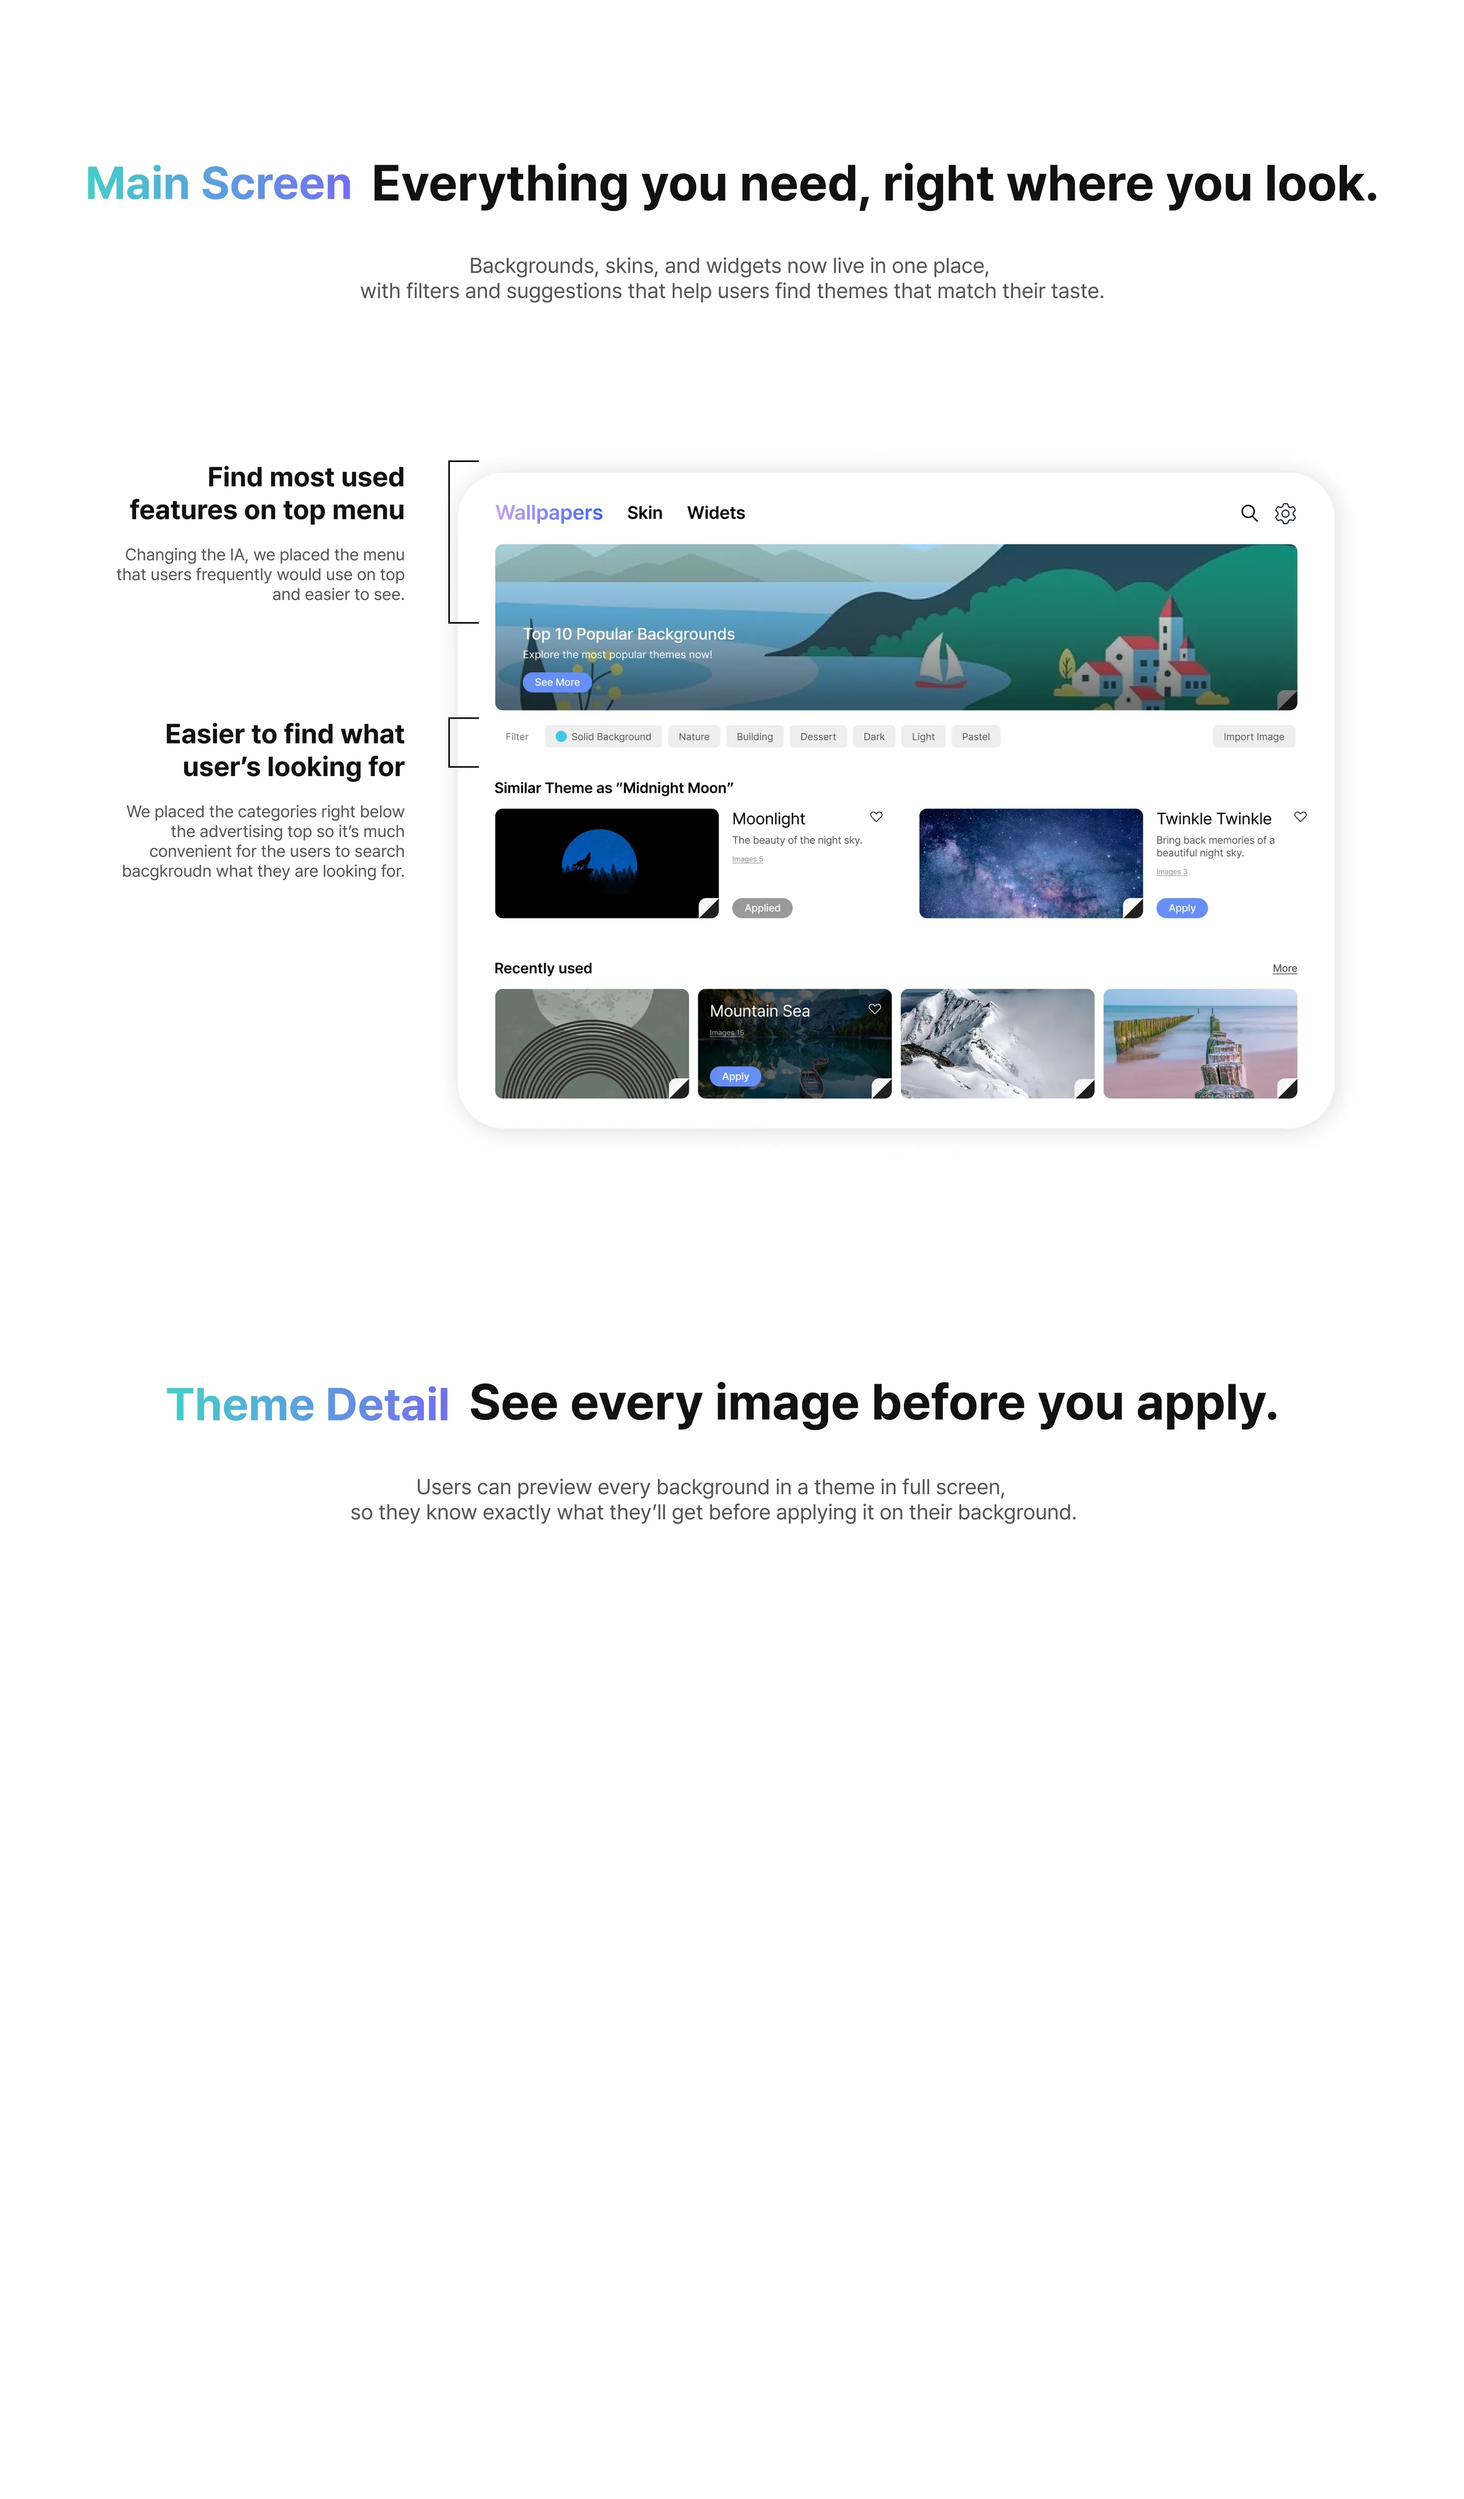
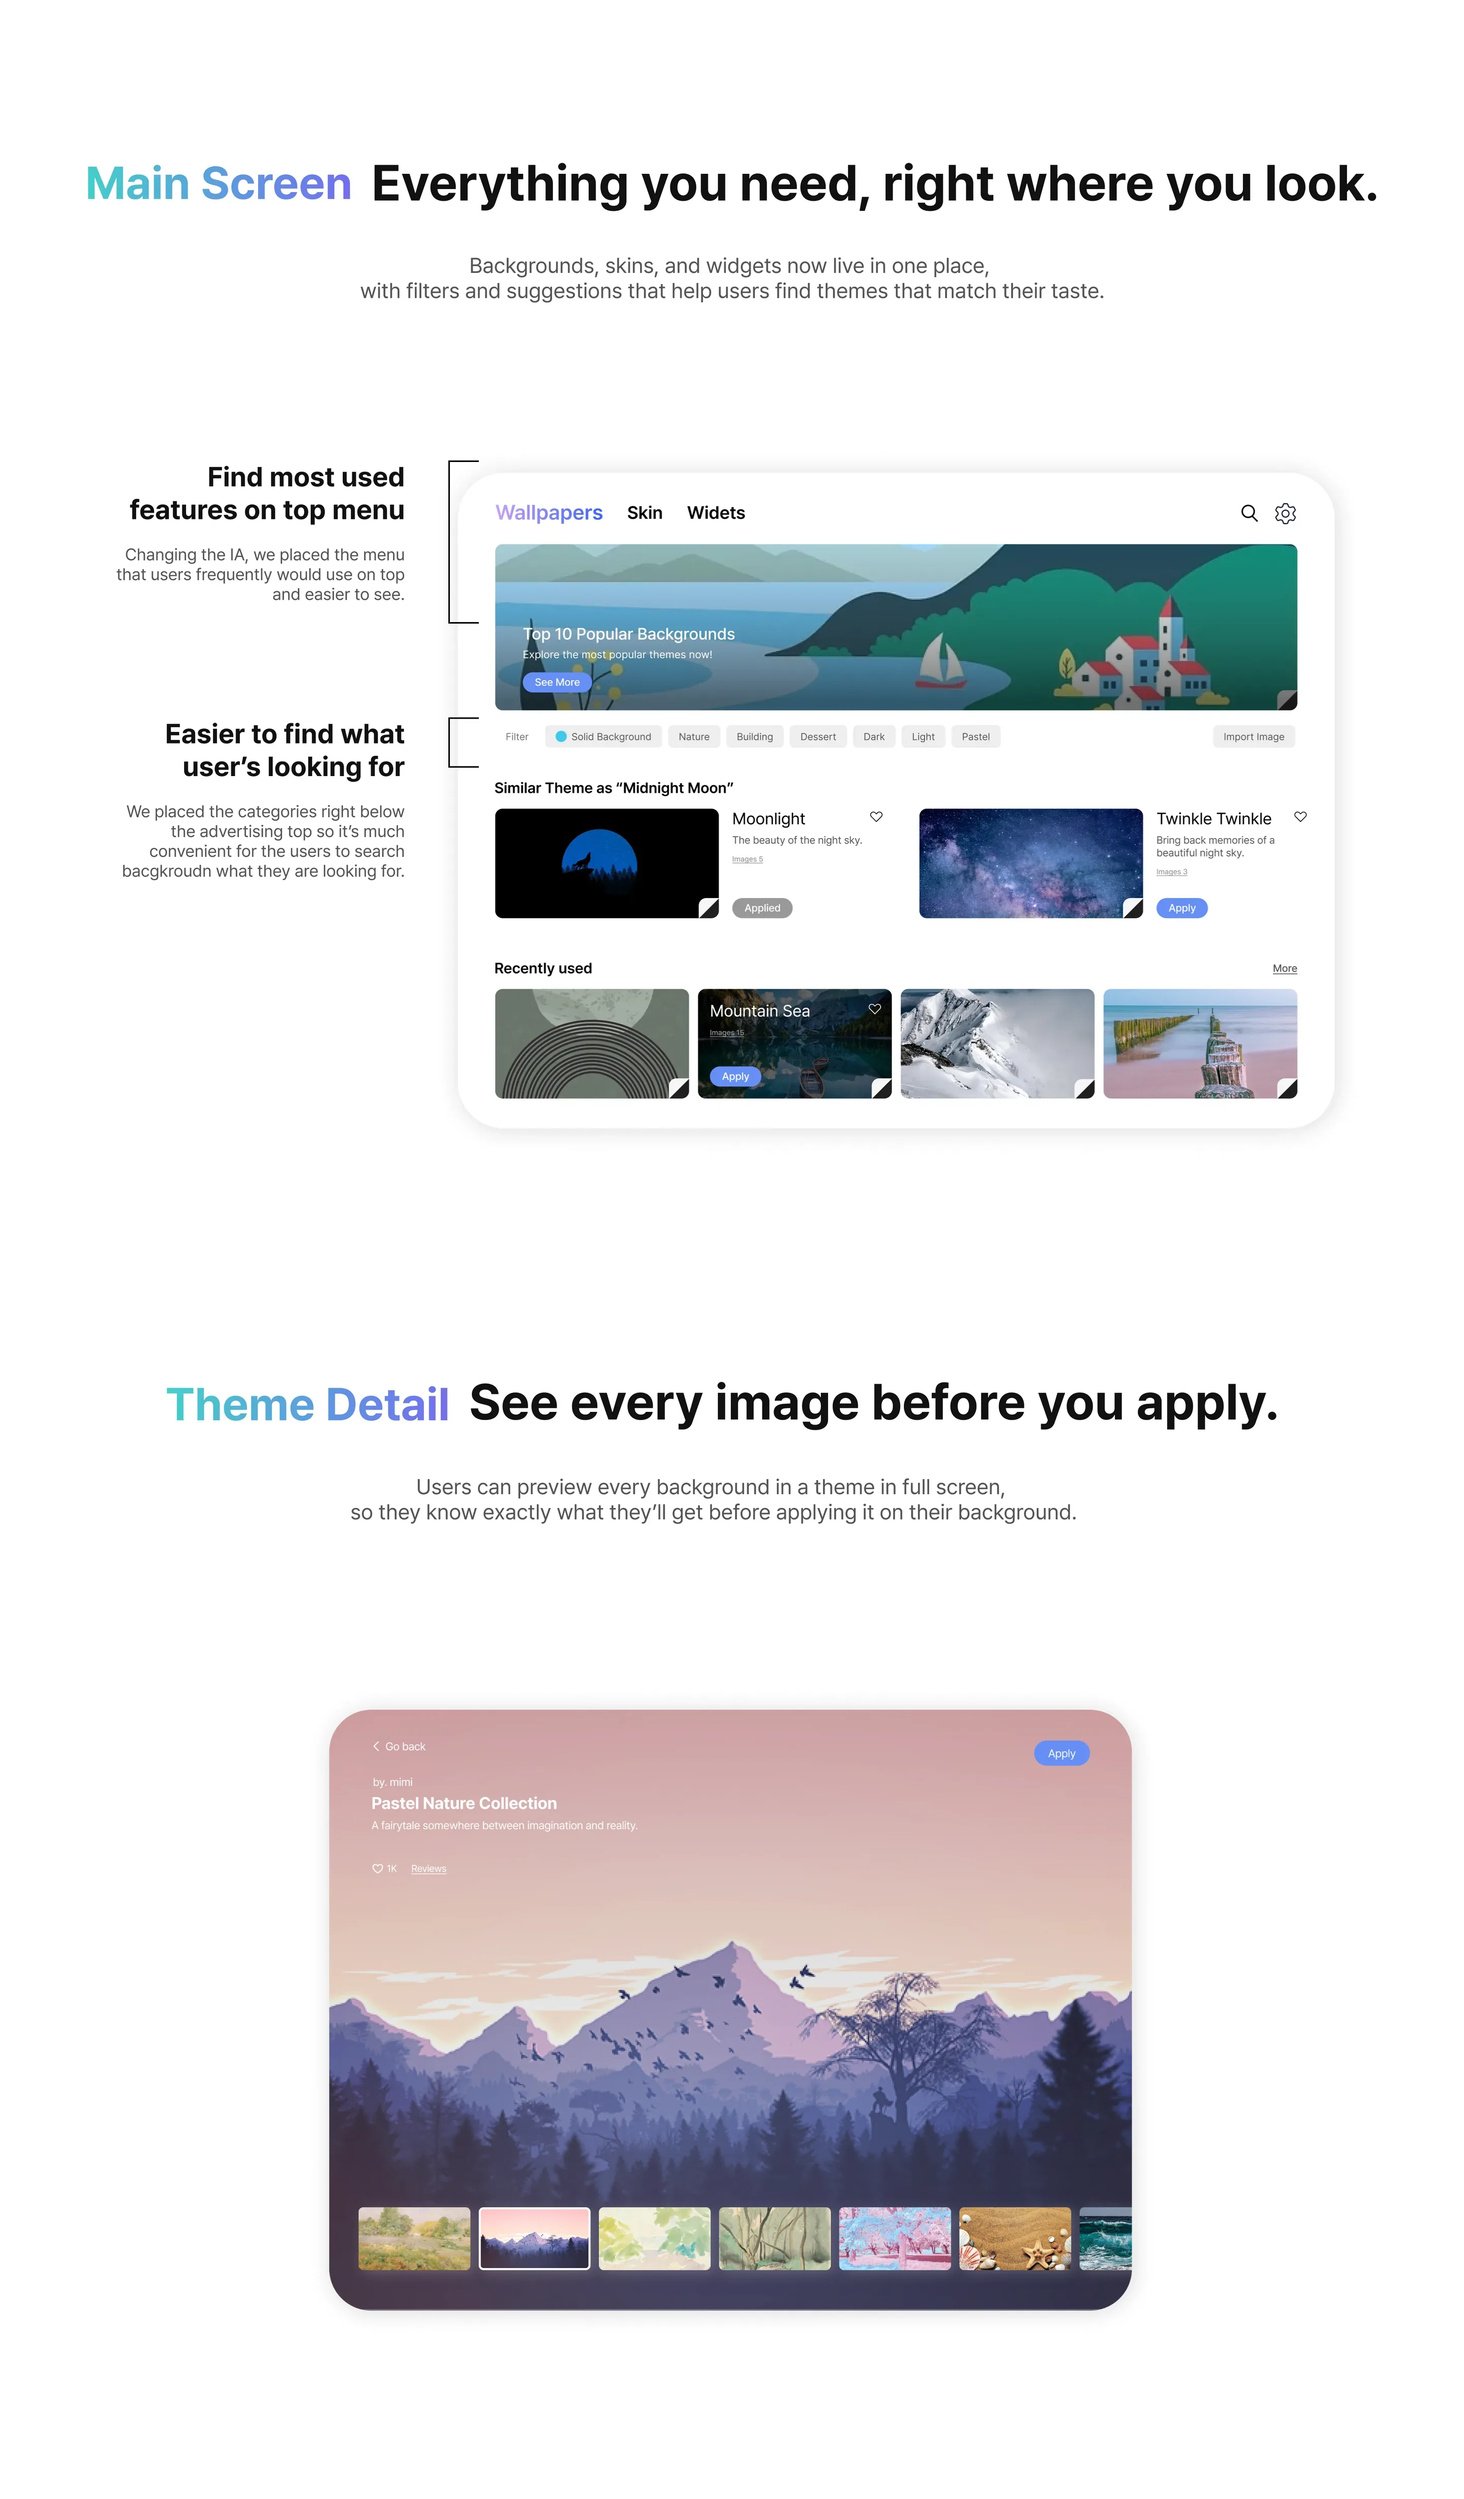
NaverWhale: cover as thumbnail, add Theme Detail screen to case study
Claude-Session: https://claude.ai/code/session_01T6myWNgbL4HD3d8bNeA5wX

Changed region(s): [[0.2188, 0.6846, 0.7812, 0.9335]]

diff --git a/js/projects.js b/js/projects.js
@@ -18,7 +18,7 @@ window.PROJECTS = [
     year: '2024',
     category: 'Prototype · UX Research · Wireframe',
     tags: 'Product · Web',
-    thumb: 'assets/projects/naverwhale/thumb.webp',
+    thumb: 'assets/projects/naverwhale/thumb.webp?v=2',
     shape: 2,
     link: '#',
   },
@@ -38,7 +38,7 @@ window.PROJECTS = [
 // WORKS 리스트 (호버하면 사각형 썸네일)
 window.WORKS = [
   { id: 'moment', title: 'MOMENT', tag: 'UXUI', thumb: 'assets/projects/moment/03.webp', link: '#' },
-  { id: 'naverwhale', title: 'NAVERWHALE', tag: 'UXUI', thumb: 'assets/projects/naverwhale/thumb.webp', link: '#' },
+  { id: 'naverwhale', title: 'NAVERWHALE', tag: 'UXUI', thumb: 'assets/projects/naverwhale/thumb.webp?v=2', link: '#' },
   { id: 'adobe', title: 'ADOBE AMBASSADOR', tag: 'blog', thumb: 'assets/projects/adobe/join.webp', link: '#' },
 ];
 
@@ -94,7 +94,7 @@ window.PROJECT_DETAILS = {
     gallery: [
       ['01', 1620], ['02', 810], ['03', 1995], ['04', 1620], ['05', 2190], ['06', 1620], ['07', 4214],
       ['08', 1620], ['09', 1796], ['10', 5802], ['11', 3632], ['12', 4917], ['13', 1620],
-    ].map(([n, h]) => ({ src: `assets/projects/naverwhale/${n}.webp`, w: 2880, h })),
+    ].map(([n, h]) => ({ src: `assets/projects/naverwhale/${n}.webp?v=2`, w: 2880, h })),
   },
   adobe: {
     title: 'Adobe Ambassador',
